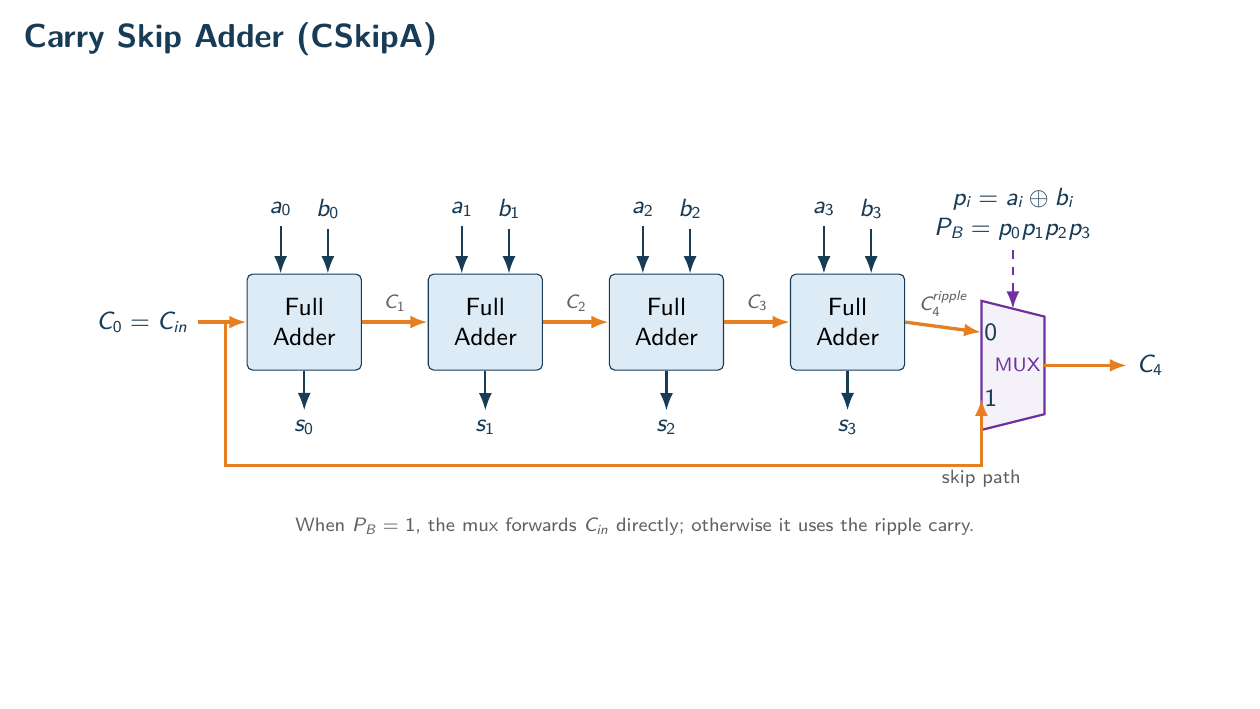
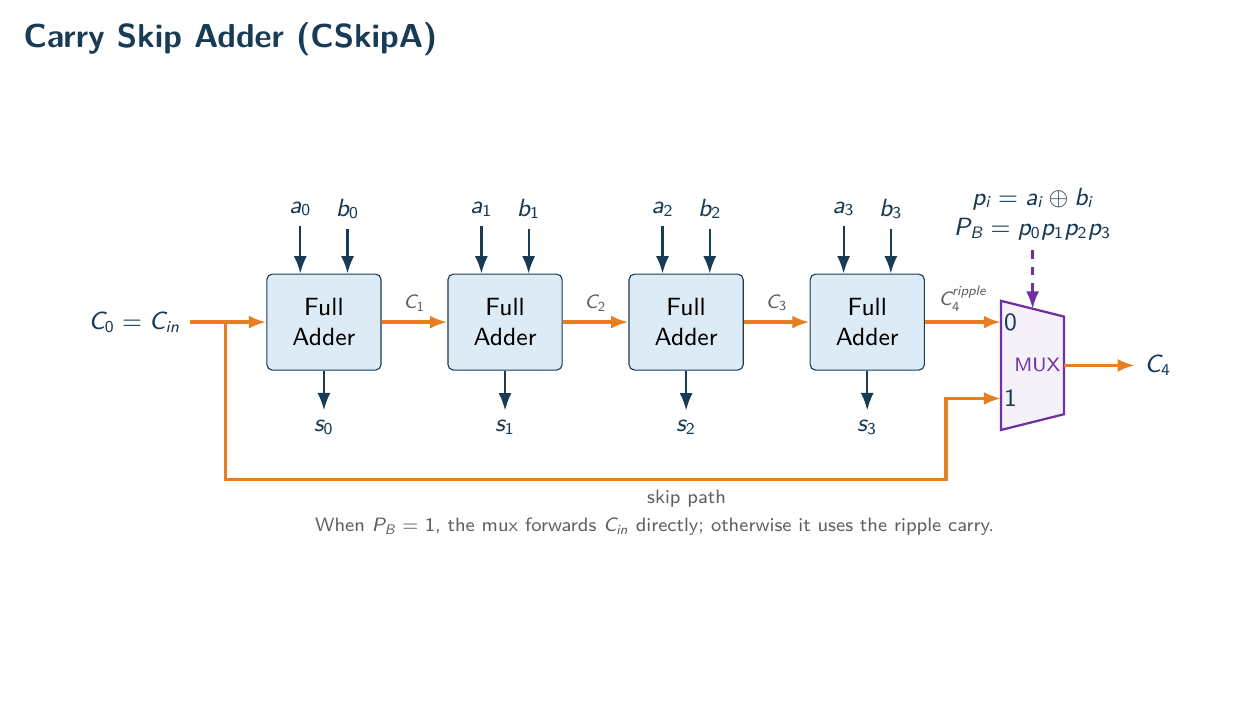
fix carry skip mux input routing

diff --git a/docs/diagrams/adder_architectures.tex b/docs/diagrams/adder_architectures.tex
@@ -186,7 +186,7 @@
     \draw[data] (fa\i.south) -- (s\i);
   }
 
-  \node[label,anchor=east] (cin) at (-5.55,.55) {$C_0=C_{in}$};
+  \node[label,anchor=east] (cin) at (-5.90,.55) {$C_0=C_{in}$};
   \draw[carry] (cin.east) -- (fa0.west);
   \draw[carry] (fa0.east) -- node[above,note] {$C_1$} (fa1.west);
   \draw[carry] (fa1.east) -- node[above,note] {$C_2$} (fa2.west);
@@ -199,21 +199,26 @@
   \coordinate (muxlr) at (5.20,-.62);
   \coordinate (muxll) at (4.40,-.82);
   \path[draw=Purple,fill=Purple!7,thick] (muxul) -- (muxur) -- (muxlr) -- (muxll) -- cycle;
-  \coordinate (muxzero) at (4.40,.42);
+  \coordinate (muxzero) at (4.40,.55);
   \coordinate (muxone) at (4.40,-.42);
   \coordinate (muxselect) at (4.80,.72);
   \coordinate (muxout) at (5.20,0);
   \node[note,text=Purple] at (4.86,0) {MUX};
-  \node[label] at (4.52,.42) {0};
+  \node[label] at (4.52,.55) {0};
   \node[label] at (4.52,-.42) {1};
   \draw[carry] (fa3.east) -- node[above,note] {$C_4^{ripple}$} (muxzero);
-  \node[label,anchor=west] (cout) at (6.25,0) {$C_4$};
+  \node[label,anchor=west] (cout) at (6.10,0) {$C_4$};
   \draw[carry] (muxout) -- (cout.west);
 
   % If all four bits propagate, the incoming carry takes the lower bypass
   % input of the mux instead of waiting for the four-stage ripple path.
-  \coordinate (cinbranch) at (-5.20,.55);
-  \draw[carry] (cinbranch) -- ++(0,-1.82) -| node[below,note,pos=.55] {skip path} (muxone);
+  \coordinate (cinbranch) at (-5.45,.55);
+  \coordinate (skipbottom) at (-5.45,-1.45);
+  \coordinate (skiprise) at (3.70,-1.45);
+  \coordinate (skipturn) at (3.70,-.42);
+  \draw[carry] (cinbranch) -- (skipbottom)
+    -- node[below,note,pos=.64] {skip path} (skiprise)
+    -- (skipturn) -- (muxone);
   \node[label,align=center] (propagate) at (4.80,1.92)
     {$p_i=a_i\oplus b_i$\\$P_B=p_0p_1p_2p_3$};
   \draw[control] (propagate.south) -- (muxselect);
